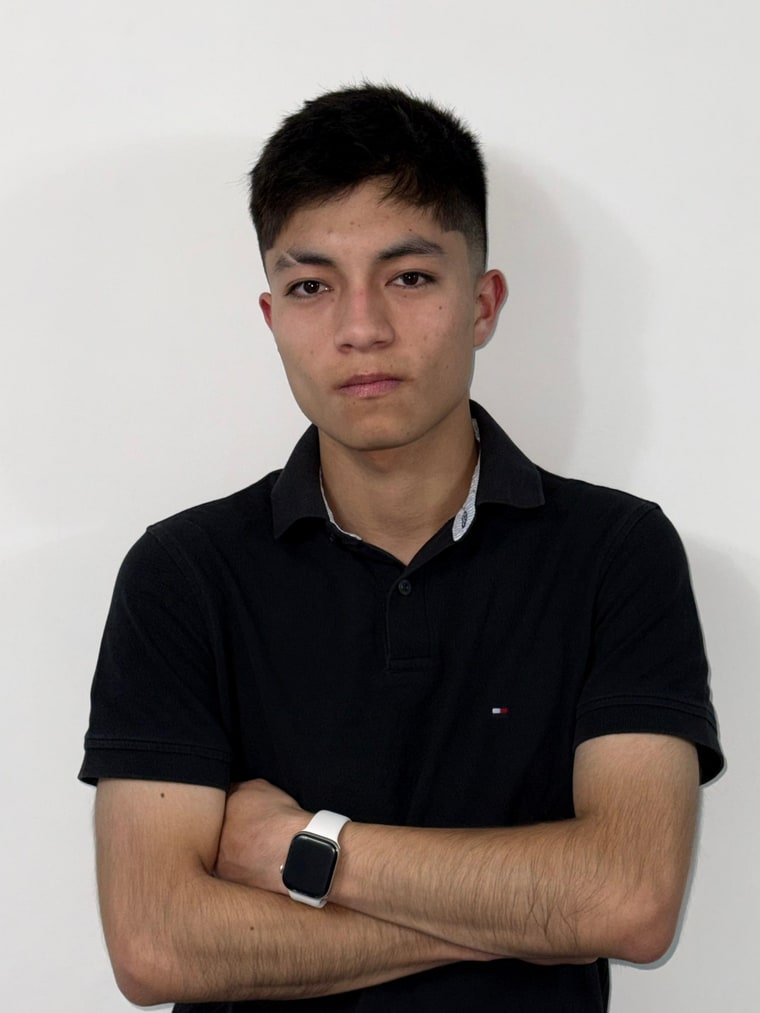
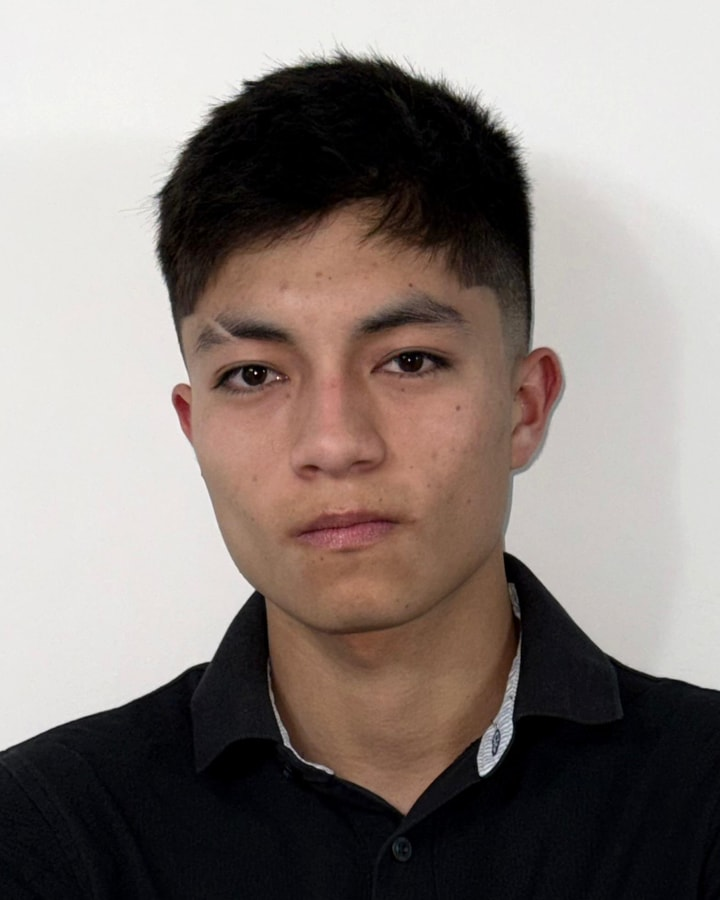
Professional headshot crop, side-rail layout, Linux skills, scroll reveals, PDF CVs

diff --git a/cv/cv-es.tex b/cv/cv-es.tex
@@ -185,9 +185,9 @@ arquitectura documentada. En transición hacia seguridad ofensiva y OSINT.
 \skillrow{Datos}{PostgreSQL, SQLite, Drizzle ORM, Pandas, web scraping, normalización de esquemas}
 \skillrow{IA y ML}{Gemini API, OpenAI API, Ollama, OpenCV, scikit-learn, diseño de prompts}
 \skillrow{Automatización}{n8n, pipelines programadas, arquitecturas de conectores, bots de Telegram}
-\skillrow{Infraestructura}{Docker, Docker Compose, Terraform, LocalStack, AWS Lambda, Vercel, Git}
+\skillrow{Infraestructura}{Linux, Bash, Docker, Docker Compose, Terraform, LocalStack, AWS Lambda, Vercel, Git}
 \skillrow{Seguridad}{Control de acceso (RBAC), auditoría, autenticación por API key, cumplimiento de protección de datos}
-\skillrow{Aprendiendo}{Seguridad ofensiva, Burp Suite, Nmap, internals de Linux, OSINT}
+\skillrow{Aprendiendo}{Seguridad ofensiva, Burp Suite, Nmap, protocolos de red, OSINT}
 
 %% --------------------------------------------------------------- education
 \section*{Formación}

diff --git a/cv/cv-en.tex b/cv/cv-en.tex
@@ -184,9 +184,9 @@ documented. Moving toward offensive security and OSINT.
 \skillrow{Data}{PostgreSQL, SQLite, Drizzle ORM, Pandas, web scraping, schema normalisation}
 \skillrow{AI \& ML}{Gemini API, OpenAI API, Ollama, OpenCV, scikit-learn, prompt design}
 \skillrow{Automation}{n8n, scheduled pipelines, connector architectures, Telegram bots}
-\skillrow{Infrastructure}{Docker, Docker Compose, Terraform, LocalStack, AWS Lambda, Vercel, Git}
+\skillrow{Infrastructure}{Linux, Bash, Docker, Docker Compose, Terraform, LocalStack, AWS Lambda, Vercel, Git}
 \skillrow{Security}{Access control (RBAC), audit trails, API-key authentication, data-protection compliance}
-\skillrow{Learning}{Offensive security, Burp Suite, Nmap, Linux internals, OSINT}
+\skillrow{Learning}{Offensive security, Burp Suite, Nmap, network protocols, OSINT}
 
 %% --------------------------------------------------------------- education
 \section*{Education}
